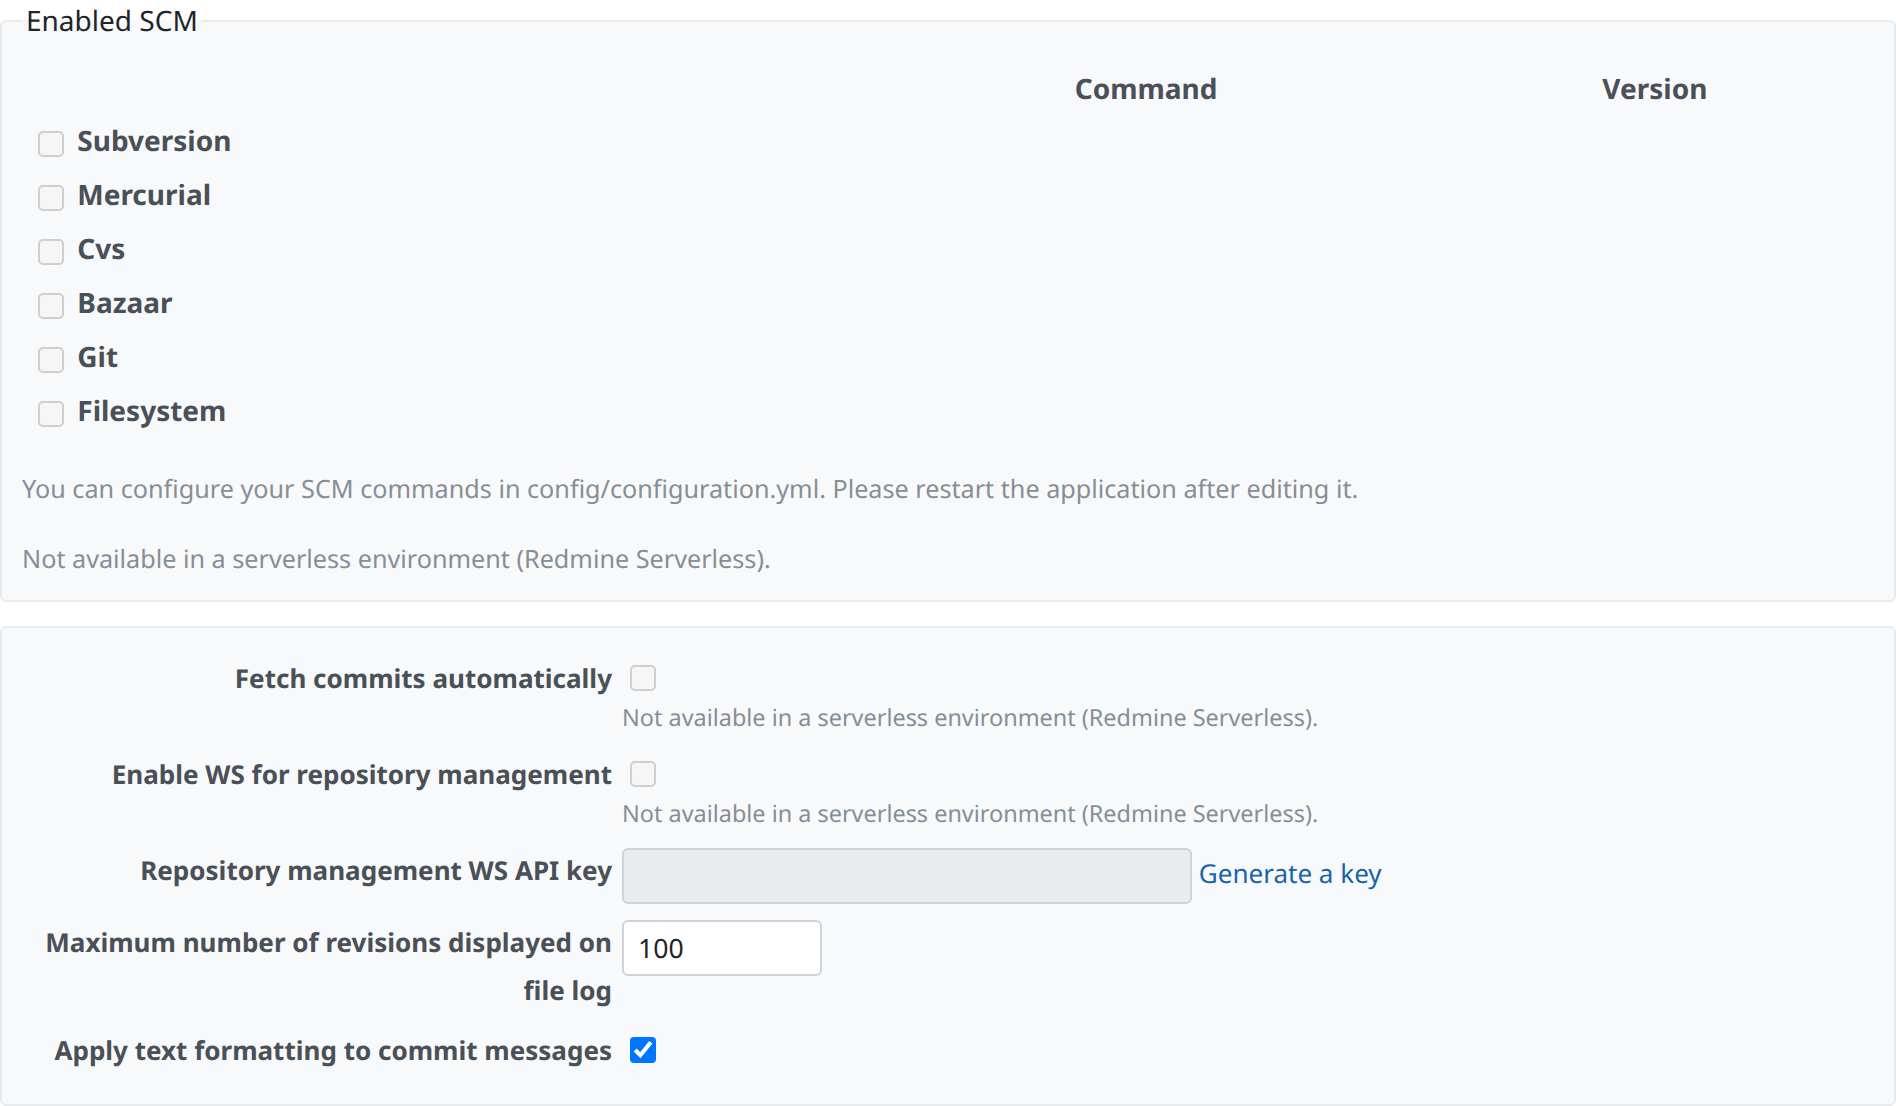
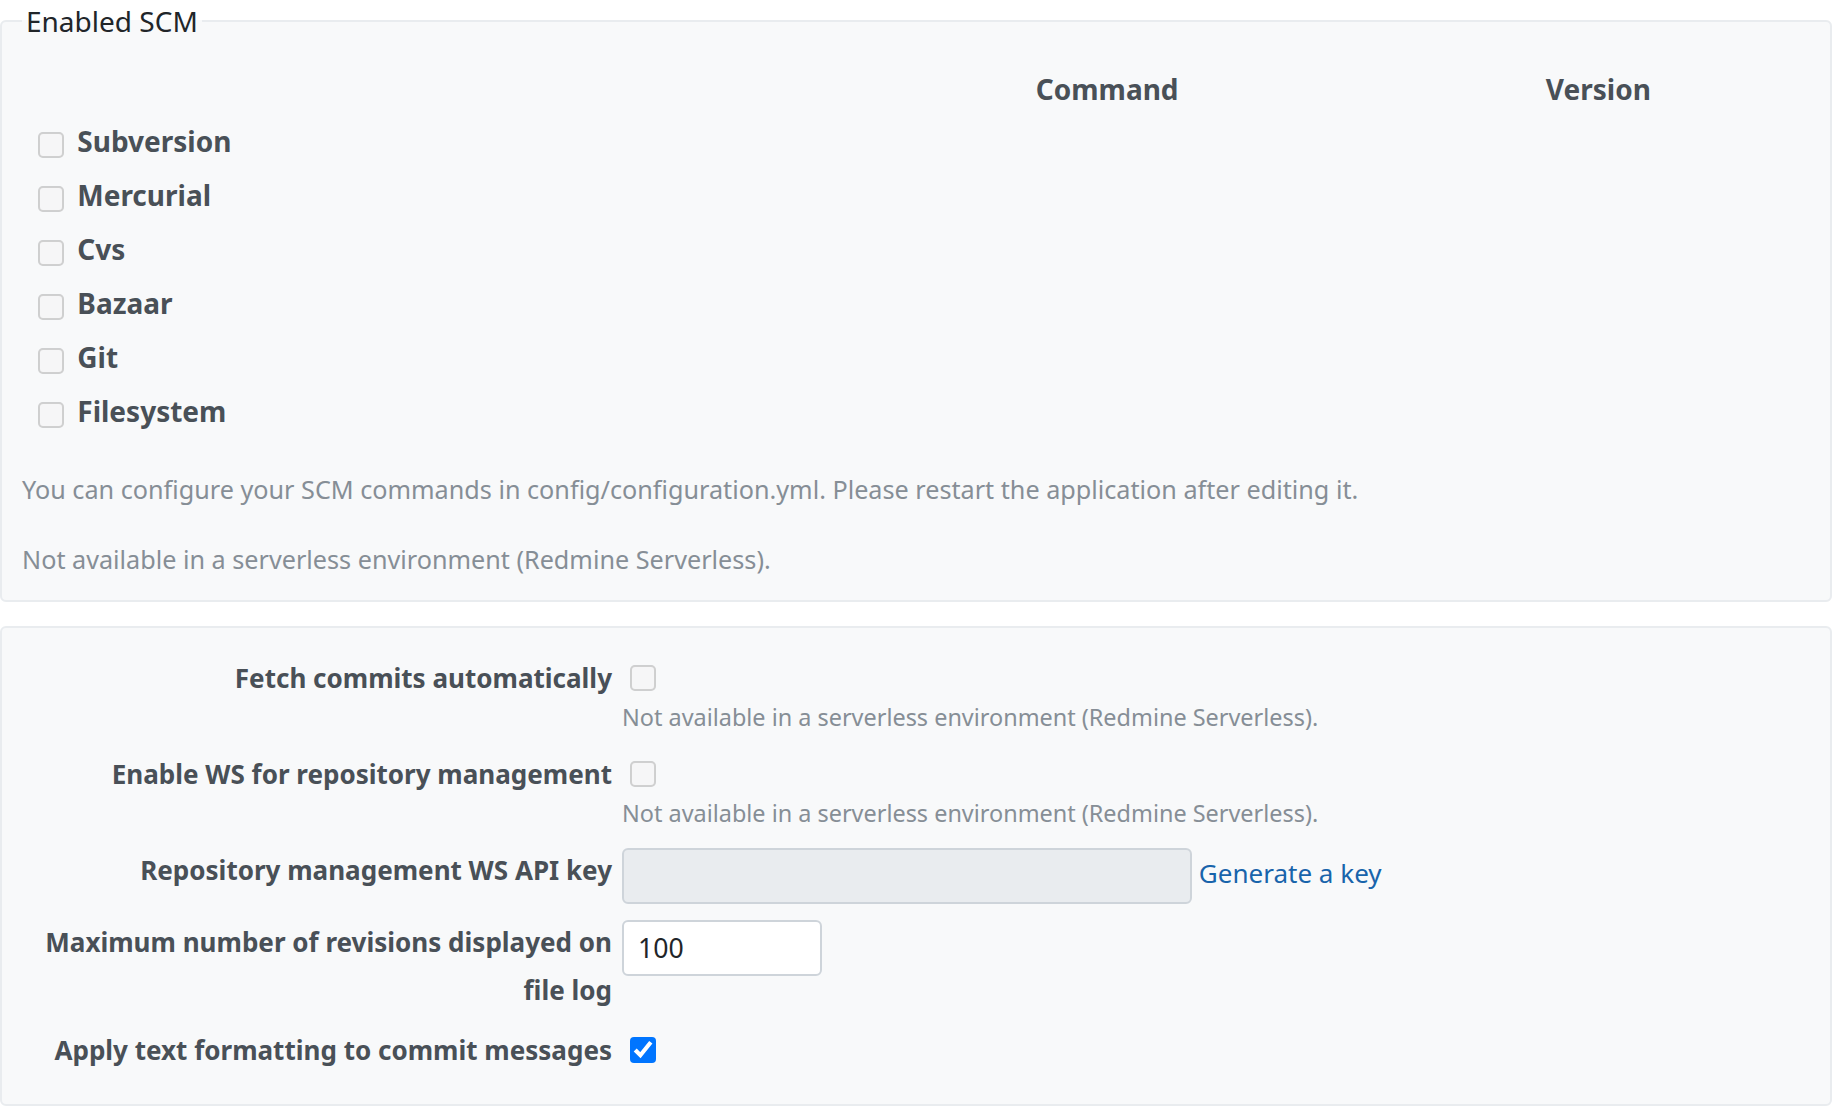
Retake the screenshots without the caret of a focused field

diff --git a/test/screenshots/screenshot_case.rb b/test/screenshots/screenshot_case.rb
@@ -42,12 +42,12 @@ class ScreenshotCase < ApplicationSystemTestCase
   # Saves the element (by default Redmine's content area) as
   # docs/<images>/<name>.png.
   # The window grows to the element's height first, since Chrome only
-  # captures what is in the window.
+  # captures what is in the window; the focused field loses its caret.
   def shoot(name, language, selector: '#content')
     element = page.find(selector)
     bottom = page.evaluate_script("document.querySelector(#{selector.to_json}).getBoundingClientRect().bottom")
     page.driver.browser.manage.window.resize_to(1280, [bottom.ceil + 200, 900].max)
-    page.execute_script('window.scrollTo(0, 0)')
+    page.execute_script('window.scrollTo(0, 0); document.activeElement?.blur()')
     path = File.join(DOCS, LANGUAGES.fetch(language), "#{name}.png")
     element.native.save_screenshot(path)
     assert File.size?(path), "no screenshot at #{path}"
